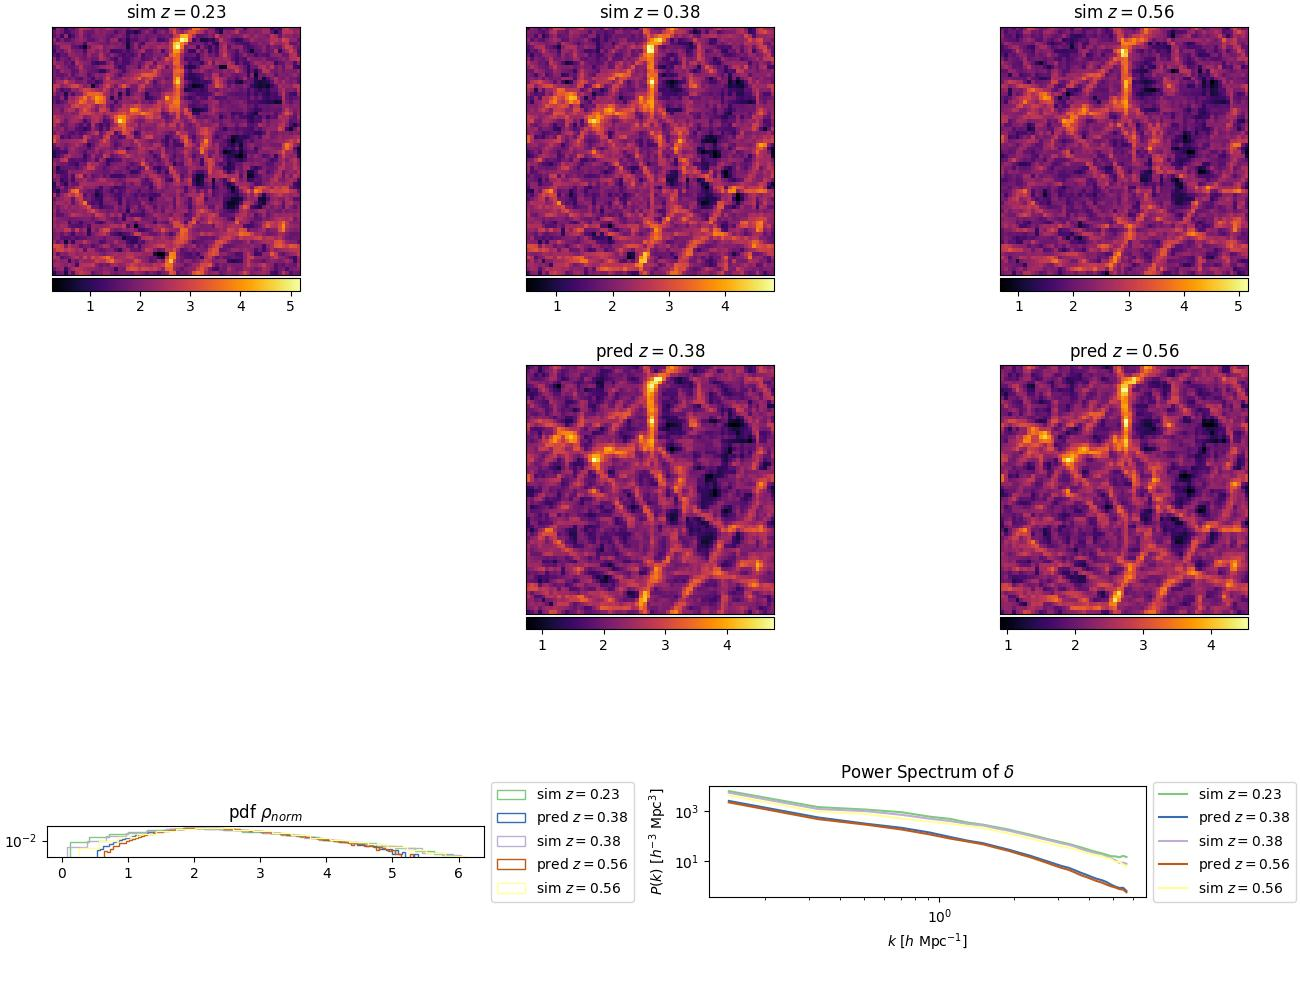
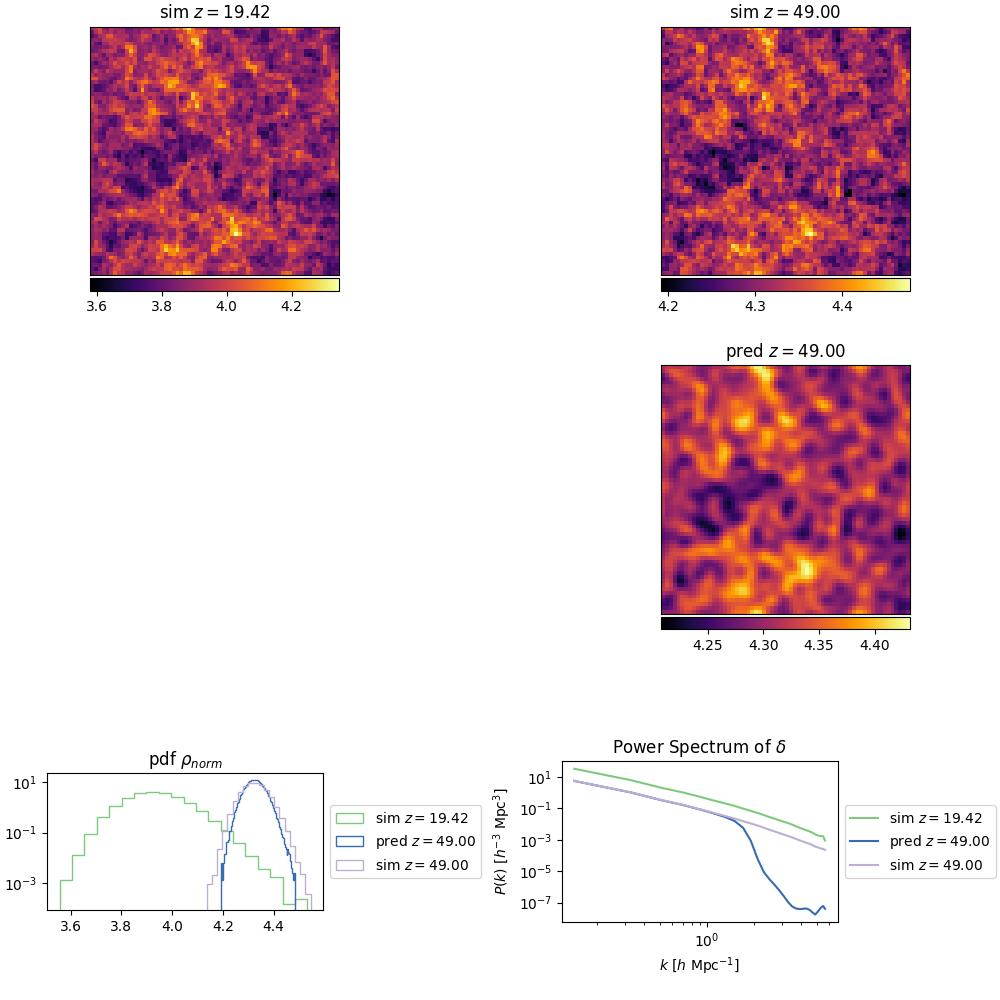
power loss working

diff --git a/src/nn/trainer.py b/src/nn/trainer.py
@@ -4,7 +4,7 @@ import optax
 import equinox as eqx
 from functools import partial
 import time
-from cosmos import PowerSpectrum, compute_overdensity
+from cosmos import PowerSpectrum, compute_overdensity, normalize_inv
 from typing import NamedTuple, Tuple
 from .metric import Metric
 from powerbox import get_power
@@ -41,33 +41,36 @@ def total_loss(
     single_state_loss : bool):
 
     # truth / prediction: [Batch, Frames, Channels, Depth, Height, Width]
-    # attributes: [Batch, Frames, 2] where 0 min 1 max
+    # attributes: [Batch, Frames, normaliztion_attributes]
 
-    # b, f, c, d, w, h = prediction.shape
-    # power_spectrum = PowerSpectrum(
-    #     d, 20)
+    normalize_inv_func = lambda x, y : normalize_inv(x, y, "log_growth")
 
-    # normalize_map = jax.vmap(jax.vmap(normalize_inv))
-    # power_map = jax.vmap(jax.vmap(power_spectrum))
+    b, f, c, d, w, h = prediction.shape
+    power_spectrum = PowerSpectrum(
+        d, 20)
 
-    # rho_truth = normalize_map(truth, attributes[:, :, 0], attributes[:, :, 1])
-    # rho_pred = normalize_map(prediction, attributes[:, :, 0], attributes[:, :, 1])
+    normalize_map = jax.vmap(jax.vmap(normalize_inv_func))
+    power_map = jax.vmap(jax.vmap(power_spectrum))
+    overdensity_map = jax.vmap(jax.vmap(compute_overdensity))
 
-    # delta_truth, mean = compute_overdensity(rho_truth[0])
-    # delta_pred, mean = compute_overdensity(rho_pred[0])
+    rho_truth = normalize_map(truth, attributes)
+    rho_pred = normalize_map(prediction, attributes)
 
-    # # mass_loss = mass_conservation_loss(rho_pred, rho_truth)
-    # p_truth, k = power_map(delta_truth)
-    # p_pred, k = power_map(delta_pred)
+    delta_truth, mean = overdensity_map(rho_truth)
+    delta_pred, mean = overdensity_map(rho_pred)
 
-    # power_loss = mse(jnp.log(p_truth), jnp.log(p_pred))
+    # mass_loss = mass_conservation_loss(rho_pred, rho_truth)
+    k, p_truth = power_map(rho_truth[:, :, 0])
+    k, p_pred = power_map(rho_pred[:, :, 0])
+
+    power_loss = mse(jnp.log10(p_truth), jnp.log10(p_pred))
 
     if single_state_loss:
         mse_loss = mse(truth[:, -1], prediction[:, -1])
     else:
         mse_loss = mse(truth, prediction)
 
-    return  mse_loss #+ power_loss
+    return  power_loss + mse_loss
 
 @partial(jax.jit, static_argnums=[1, 4, 5, 6])
 def prediction_loss(

diff --git a/src/evaluate.py b/src/evaluate.py
@@ -39,8 +39,8 @@ def main(argv) -> None:
     # data_iterator = DALIGenericIterator(data_pipeline, ["data", "step", "attributes"])
 
     sample = next(data_iterator)
-    sequence = jax.device_put(sample['data'], jax.devices('gpu')[0])[1]
-    attributes = jax.device_put(sample['attributes'], jax.devices('gpu')[0])[1]
+    sequence = jax.device_put(sample['data'], jax.devices('gpu')[0])[0]
+    attributes = jax.device_put(sample['attributes'], jax.devices('gpu')[0])[0]
     pred = model(sequence, attributes, False, config.include_potential)
     pred_seq = model(sequence, attributes, True, config.include_potential)
     # pred_sequential = model(sequence, attributes, True)

diff --git a/src/compare_models.py b/src/compare_models.py
@@ -37,7 +37,8 @@ def main(argv) -> None:
         # labels.append(f"from z={to_redshift((config.file_index_start + config.file_index_stride) / 100):.1f}")
         # labels.append("+ potential" if config.include_potential else "")
         # labels.append(str(config.fno_hidden_channels) + " hidden channels")
-        labels.append(str(config.fno_n_layers) + " layers")
+        labels.append("mse" if i == 0 else "mse + power loss")
+        # labels.append(str(config.fno_n_layers) + " layers")
         print((config.file_index_start + config.file_index_stride) / config.total_index_steps)
 
         norm_functions.append(config.normalizing_function)

diff --git a/src/cosmos/power_spectrum.py b/src/cosmos/power_spectrum.py
@@ -18,7 +18,7 @@ class PowerSpectrum(FrequencyOperation):
         self.n_modes = self.n_modes.at[self.index_grid].add(1)
 
     def __call__(self, delta : jax.Array) -> Tuple[jax.Array, jax.Array]:
-        # get the density field in furier space
+        # get the density field in fourier space
         delta_k = jnp.fft.rfftn(delta)
 
         power = jnp.zeros(self.n_bins)

diff --git a/src/tests/test_power.py b/src/tests/test_power.py
@@ -18,7 +18,11 @@ def test_power():
     
     k, P_k = power_spectrum(delta)
 
+    print(P_k)
+
     assert k.shape == (n_bins,)
     assert P_k.shape == (n_bins,)
 
     assert jnp.all(P_k >= 0)
+
+    assert False
